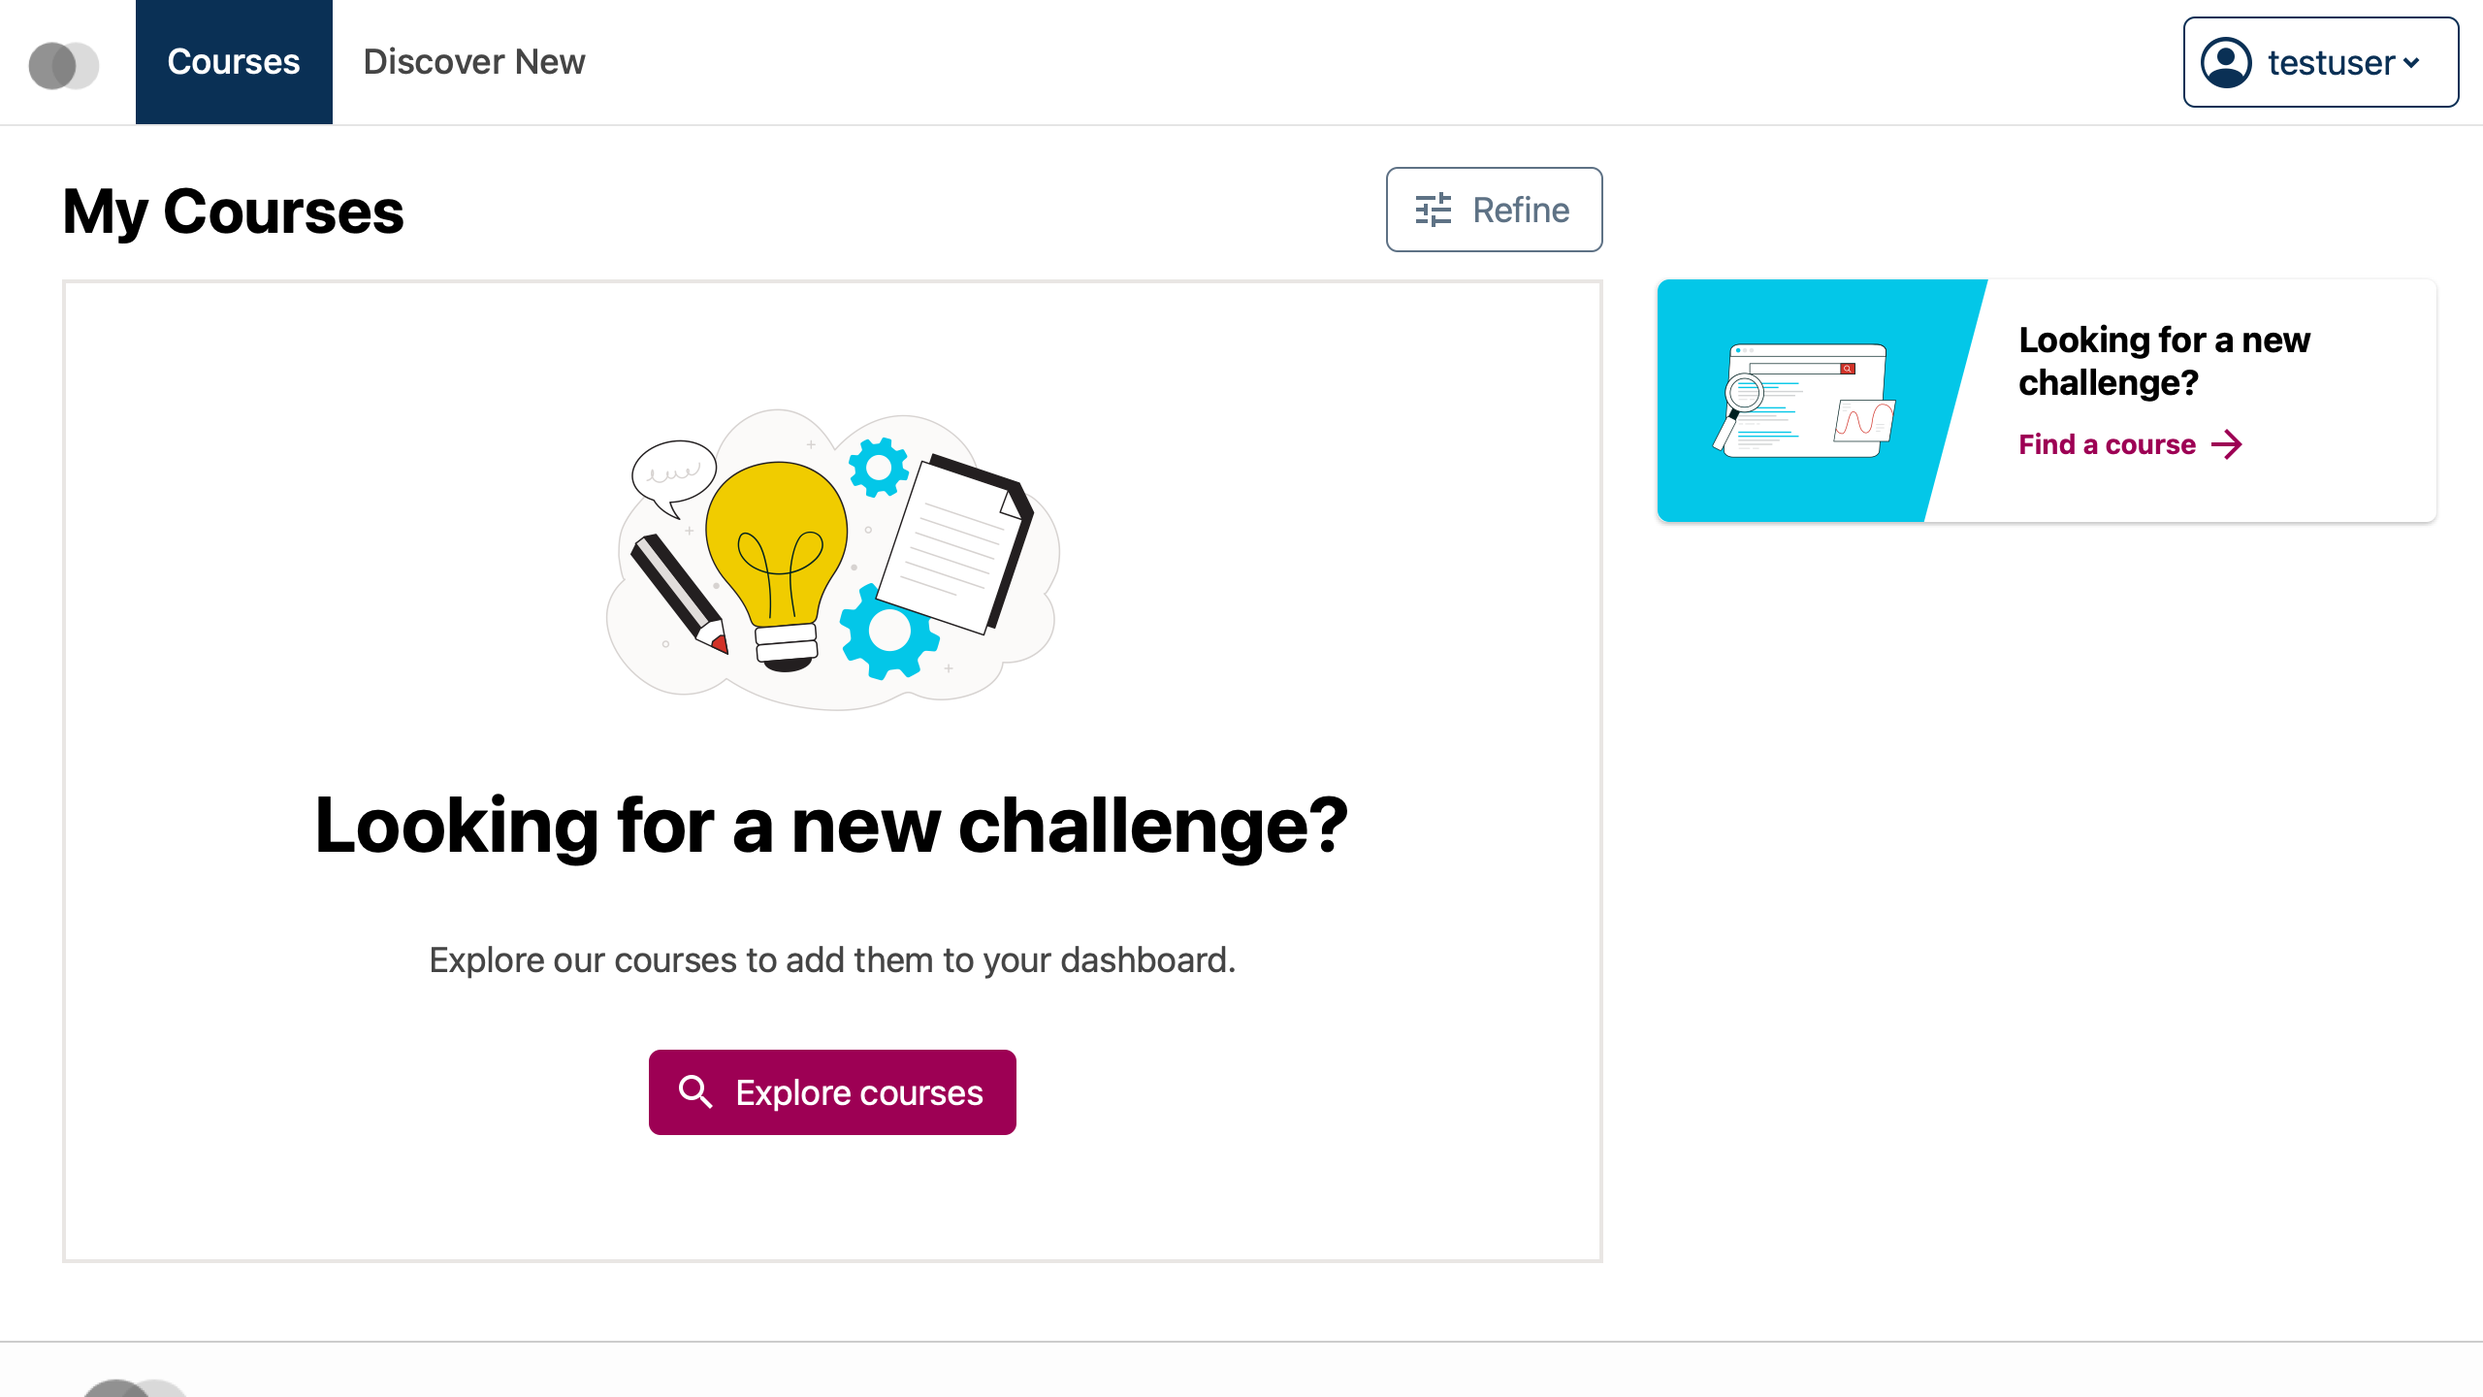
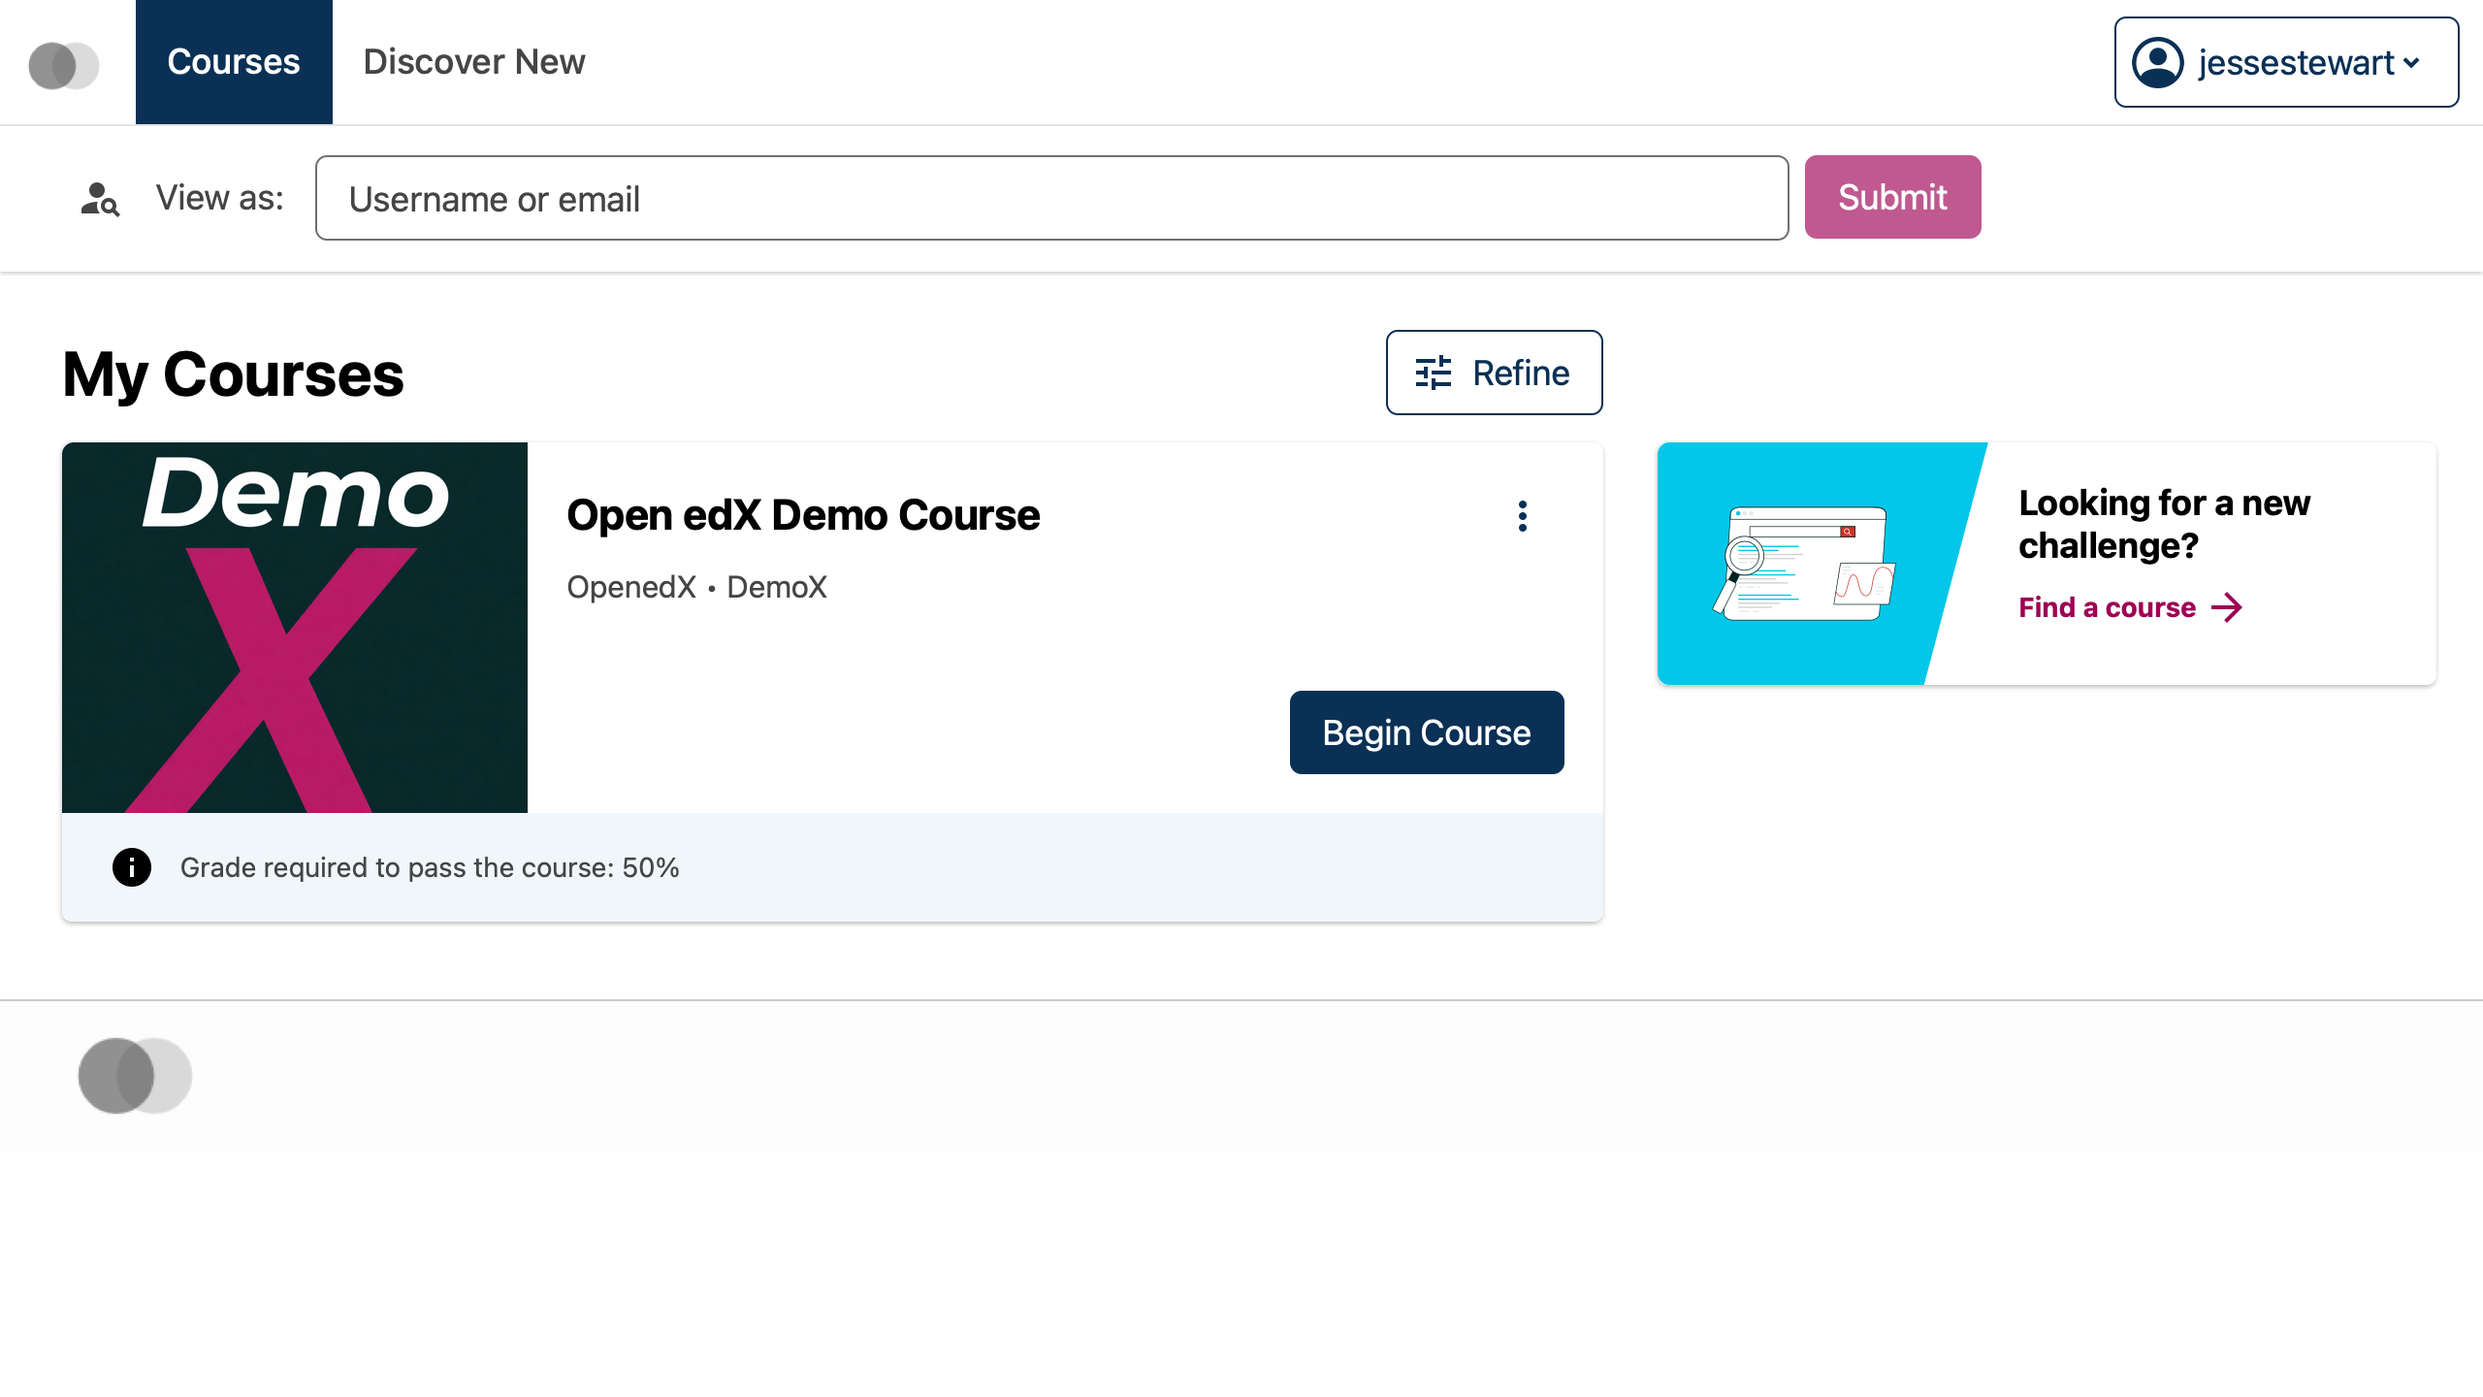
feat: move secrets to env and update package

diff --git a/tests/auth/login.spec.ts b/tests/auth/login.spec.ts
@@ -10,69 +10,24 @@ test.describe('Authentication Tests', () => {
     await loginPage.navigate();
   });
 
-  test('user can login with valid credentials', async ({ page }, testInfo) => {
-    const vr = new VisualRegression(page, testInfo);
-
+  test('user can login with valid credentials', async ({ page }) => {
     // Wait for login form to be fully loaded
     await expect(loginPage.emailInput).toBeVisible();
     await expect(loginPage.passwordInput).toBeVisible();
     await expect(loginPage.loginButton).toBeVisible();
 
-    // Capture login page baseline
-    await vr.captureAndCompare({
-      name: 'login-page-initial',
-      fullPage: true,
-    });
-
-    await assertA11y(page, { warnOnly: true, report: true, reportName: 'login-page' }, testInfo);
-
     // Attempt login with credentials from environment
-    const username = process.env.TEST_USER || 'testuser';
-    const password = process.env.TEST_PASS || 'password123';
+    const username = process.env.TEST_USER;
+    const password = process.env.TEST_PASS;
+
+    if (!username || !password) {
+      throw new Error('TEST_USER and TEST_PASS environment variables must be set');
+    }
+
     await loginPage.login(username, password);
 
-    // Wait for navigation or error
-    await page.waitForLoadState('networkidle');
-
-    // Check if we're on dashboard or got an error
-    const currentUrl = page.url();
-    // eslint-disable-next-line no-console
-    console.log('Current URL after login:', currentUrl);
-
-    // Check for error messages
-    const errorMessage = page.locator('[role="alert"]');
-    const tryAgainButton = page.locator('button:has-text("Try again")');
-
-    if (await tryAgainButton.isVisible()) {
-      throw new Error('Login failed with "Try again" error page');
-    }
-
-    if (await errorMessage.isVisible()) {
-      const errorText = await errorMessage.textContent();
-      throw new Error(`Login failed with error: ${errorText}`);
-    }
-
-    // Expect successful redirect to dashboard
-    await expect(page).toHaveURL(/dashboard/);
-
-    // Navigate to account settings page for visual regression demo
-    await page.goto('http://apps.local.openedx.io:1997/account/');
-    await page.waitForLoadState('networkidle');
-
-    // Capture account page state after successful login
-    // Mask dynamic content like timestamps and user-specific data
-    await vr.captureAndCompare({
-      name: 'account-page-after-login',
-      fullPage: true,
-      threshold: 0.15, // Allow minor rendering differences (anti-aliasing, fonts)
-      mask: [
-        '.timestamp',
-        '[data-testid="user-greeting"]',
-        '.last-login-time',
-      ],
-    });
-
-    await assertA11y(page, { warnOnly: true, report: true, reportName: 'account-page' }, testInfo);
+    // Expect successful redirect to learner dashboard
+    await expect(page).toHaveURL(/learner-dashboard/, { timeout: 15000 });
   });
 
   test('user sees error with invalid credentials', async ({ page }) => {

diff --git a/tests/courses/checklist-course.spec.ts b/tests/courses/checklist-course.spec.ts
@@ -12,10 +12,14 @@ test.describe('Complete Course CheckList', () => {
     await loginPage.navigate();
   });
   test('user can complete the checklist of a course', async ({ page }, testInfo) => {
-    const user = process.env.TEST_USER || 'adminuser';
-    const pass = process.env.TEST_PASS || 'adminuser123';
+    const user = process.env.TEST_USER;
+    const pass = process.env.TEST_PASS;
     const authoringTarget = process.env.AUTHORING_URL || 'http://apps.local.openedx.io:2001/authoring/home';
     const openEdxUrl = 'http://apps.local.openedx.io:2001';
+
+    if (!user || !pass) {
+      throw new Error('TEST_USER and TEST_PASS environment variables must be set');
+    }
     const testDoc = new TestdocTest(page, 'Complete-Checklist-Course', {
       title: 'Complete the checklists of a course',
       overview: 'Once a course is created, it must be properly configured by completing all required checklists. This test guides you through the process of accessing a course and fulfilling its configuration checklists to ensure it is ready for use.',

diff --git a/tests/testdoc/login-walkthrough.spec.ts b/tests/testdoc/login-walkthrough.spec.ts
@@ -49,9 +49,16 @@ test.describe('Testdoc: How to Login', () => {
     });
 
     // Step 3: Fill in email
+    const username = process.env.TEST_USER;
+    const password = process.env.TEST_PASS;
+
+    if (!username || !password) {
+      throw new Error('TEST_USER and TEST_PASS environment variables must be set');
+    }
+
     await testdoc.fill({
       selector: 'input[name="emailOrUsername"]',
-      value: 'testuser',
+      value: username,
       title: 'Enter your email or username',
       description: 'Enter either the email address you registered with or your chosen username in the first field.',
       elementOnly: 'form[id="sign-in-form"]',
@@ -61,7 +68,7 @@ test.describe('Testdoc: How to Login', () => {
     // Step 4: Fill in password
     await testdoc.fill({
       selector: 'input[name="password"]',
-      value: 'password123',
+      value: password,
       title: 'Enter your password',
       description: 'Type your password in the password field.',
       elementOnly: 'form[id="sign-in-form"]',

diff --git a/tests/courses/create-course.spec.ts b/tests/courses/create-course.spec.ts
@@ -12,9 +12,13 @@ test.describe('Testdoc: How To Create a Course', () => {
   });
 
   test('user can create a valid course', async ({ page }, testInfo) => {
-    const user = process.env.TEST_USER || 'adminuser';
-    const pass = process.env.TEST_PASS || 'admin123';
+    const user = process.env.TEST_USER;
+    const pass = process.env.TEST_PASS;
     const authoringTarget = process.env.AUTHORING_URL || 'http://apps.local.openedx.io:2001/authoring/home';
+
+    if (!user || !pass) {
+      throw new Error('TEST_USER and TEST_PASS environment variables must be set');
+    }
     const testDoc = new TestdocTest(page, 'Create-Course-Test', {
       title: 'Creating a New Course in Open edX',
       overview: 'This test automates the end-to-end workflow for creating a new course in the Open edX authoring environment. It demonstrates how to access the course creation page, enter all required course details, and submit the form to successfully create a new course instance.',

diff --git a/tests/courses/add-unit.spec.ts b/tests/courses/add-unit.spec.ts
@@ -11,9 +11,13 @@ test.describe('Add Unit to Course Test', () => {
     await loginPage.navigate();
   });
   test('user can add a Unit to a course', async ({ page }, testInfo) => {
-    const user = process.env.TEST_USER || 'adminuser';
-    const pass = process.env.TEST_PASS || 'admin123';
+    const user = process.env.TEST_USER;
+    const pass = process.env.TEST_PASS;
     const authoringTarget = process.env.AUTHORING_URL || 'http://apps.local.openedx.io:2001/authoring/home';
+
+    if (!user || !pass) {
+      throw new Error('TEST_USER and TEST_PASS environment variables must be set');
+    }
     const testDoc = new TestdocTest(page, 'Add-Unit-Course', {
       title: 'Adding a Unit to a Course in Open edX',
       overview: 'This test details the steps required to add a new unit to an existing course in the Open edX authoring environment. It includes navigating to the course, selecting the appropriate section, and using the interface to create a new unit.',

diff --git a/tests/courses/add-section-course.spec.ts b/tests/courses/add-section-course.spec.ts
@@ -10,9 +10,13 @@ test.describe('Add Section to Course Test', () => {
     await loginPage.navigate();
   });
   test('user can add a Section to a course', async ({ page }, testInfo) => {
-    const user = process.env.TEST_USER || 'adminuser';
-    const pass = process.env.TEST_PASS || 'adminuser123';
+    const user = process.env.TEST_USER;
+    const pass = process.env.TEST_PASS;
     const authoringTarget = process.env.AUTHORING_URL || 'http://apps.local.openedx.io:2001/authoring/home';
+
+    if (!user || !pass) {
+      throw new Error('TEST_USER and TEST_PASS environment variables must be set');
+    }
     const testDoc = new TestdocTest(page, 'Add-Section-Course', {
       title: 'Adding section to a Course in Open edX',
       overview: 'This test walks through the process of adding a new section to an existing course in the Open edX authoring environment. It covers accessing the course, opening the section creation form, and saving the new section.',

diff --git a/tests/courses/export-course.spec.ts b/tests/courses/export-course.spec.ts
@@ -11,9 +11,13 @@ test.describe('Export Course Tests', () => {
     await loginPage.navigate();
   });
   test('user can export a course', async ({ page }, testInfo) => {
-    const user = process.env.TEST_USER || 'adminuser';
-    const pass = process.env.TEST_PASS || 'adminuser123';
+    const user = process.env.TEST_USER;
+    const pass = process.env.TEST_PASS;
     const authoringTarget = process.env.AUTHORING_URL || 'http://apps.local.openedx.io:2001/authoring/home';
+
+    if (!user || !pass) {
+      throw new Error('TEST_USER and TEST_PASS environment variables must be set');
+    }
     const testDoc = new TestdocTest(page, 'Create-Course-Test', {
       title: 'Exporting a Course in Open edX',
       overview: 'This test automates the export workflow for a course in the Open edX authoring environment. It demonstrates how to access the export page, select a course, and initiate the export process to generate a downloadable course archive.',

diff --git a/tests/courses/import-course.spec.ts b/tests/courses/import-course.spec.ts
@@ -12,10 +12,14 @@ test.describe('Testdoc: How To Import a Course', () => {
   });
   test('user can import a course', async ({ page }, testInfo) => {
     // Use environment variables or config for credentials and URLs
-    const user = process.env.TEST_USER || 'adminuser';
-    const pass = process.env.TEST_PASS || 'admin123';
+    const user = process.env.TEST_USER;
+    const pass = process.env.TEST_PASS;
     const authoringTarget = process.env.AUTHORING_URL || 'http://apps.local.openedx.io:2001/authoring/home';
     const filePath = 'artifacts/downloads/testCourseToImport.tar.gz';
+
+    if (!user || !pass) {
+      throw new Error('TEST_USER and TEST_PASS environment variables must be set');
+    }
 
     const testDoc = new TestdocTest(page, 'Import-Course-Test', {
       title: 'Importing a Course in Open edX',

diff --git a/tests/debug.spec.ts b/tests/debug.spec.ts
@@ -33,9 +33,16 @@ test.describe('Debug Tests', () => {
     const loginPage = new LoginPage(page);
     await loginPage.navigate();
 
-    // Fill form with test credentials
-    await loginPage.emailInput.fill('testuser');
-    await loginPage.passwordInput.fill('password123');
+    // Fill form with test credentials from environment
+    const username = process.env.TEST_USER;
+    const password = process.env.TEST_PASS;
+
+    if (!username || !password) {
+      throw new Error('TEST_USER and TEST_PASS environment variables must be set');
+    }
+
+    await loginPage.emailInput.fill(username);
+    await loginPage.passwordInput.fill(password);
 
     // Log form values
     const emailValue = await loginPage.emailInput.inputValue();

diff --git a/README.md b/README.md
@@ -318,17 +318,28 @@ This repository includes example tests for Open edX. To run them:
    npm run install:browsers
    ```
 
-2. **Setup test data:**
+2. **Configure environment variables:**
+   ```bash
+   # Copy the example environment file
+   cp .env.example .env
+
+   # Edit .env and set your credentials
+   # Required variables:
+   #   - TEST_USER, TEST_PASS
+   #   - TEST_USER_EMAIL, TEST_USER_USERNAME, TEST_USER_PASSWORD
+   #   - ADMIN_USER_EMAIL, ADMIN_USER_USERNAME, ADMIN_USER_PASSWORD
+   ```
+
+   **⚠ Security Note:** Never commit the `.env` file to version control. It's already in `.gitignore`.
+
+3. **Setup test data:**
    ```bash
    npm run setup
    ```
 
-   This creates:
-   - Test user: `testuser` / `password123` (`test@example.com`)
-   - Admin user: `adminuser` / `admin123` (`admin@example.com`)
-   - Demo course and test course
+   This creates test users in your Open edX instance based on the credentials in your `.env` file.
 
-3. **Run tests:**
+4. **Run tests:**
    ```bash
    npm test                    # Run all tests
    npm run test:headed         # With visible browser

diff --git a/LICENSE.md b/LICENSE.md
@@ -1,0 +1,21 @@
+# MIT License
+
+Copyright (c) 2025 Western Governors University
+
+Permission is hereby granted, free of charge, to any person obtaining a copy
+of this software and associated documentation files (the "Software"), to deal
+in the Software without restriction, including without limitation the rights
+to use, copy, modify, merge, publish, distribute, sublicense, and/or sell
+copies of the Software, and to permit persons to whom the Software is
+furnished to do so, subject to the following conditions:
+
+The above copyright notice and this permission notice shall be included in all
+copies or substantial portions of the Software.
+
+THE SOFTWARE IS PROVIDED "AS IS", WITHOUT WARRANTY OF ANY KIND, EXPRESS OR
+IMPLIED, INCLUDING BUT NOT LIMITED TO THE WARRANTIES OF MERCHANTABILITY,
+FITNESS FOR A PARTICULAR PURPOSE AND NONINFRINGEMENT. IN NO EVENT SHALL THE
+AUTHORS OR COPYRIGHT HOLDERS BE LIABLE FOR ANY CLAIM, DAMAGES OR OTHER
+LIABILITY, WHETHER IN AN ACTION OF CONTRACT, TORT OR OTHERWISE, ARISING FROM,
+OUT OF OR IN CONNECTION WITH THE SOFTWARE OR THE USE OR OTHER DEALINGS IN THE
+SOFTWARE.
